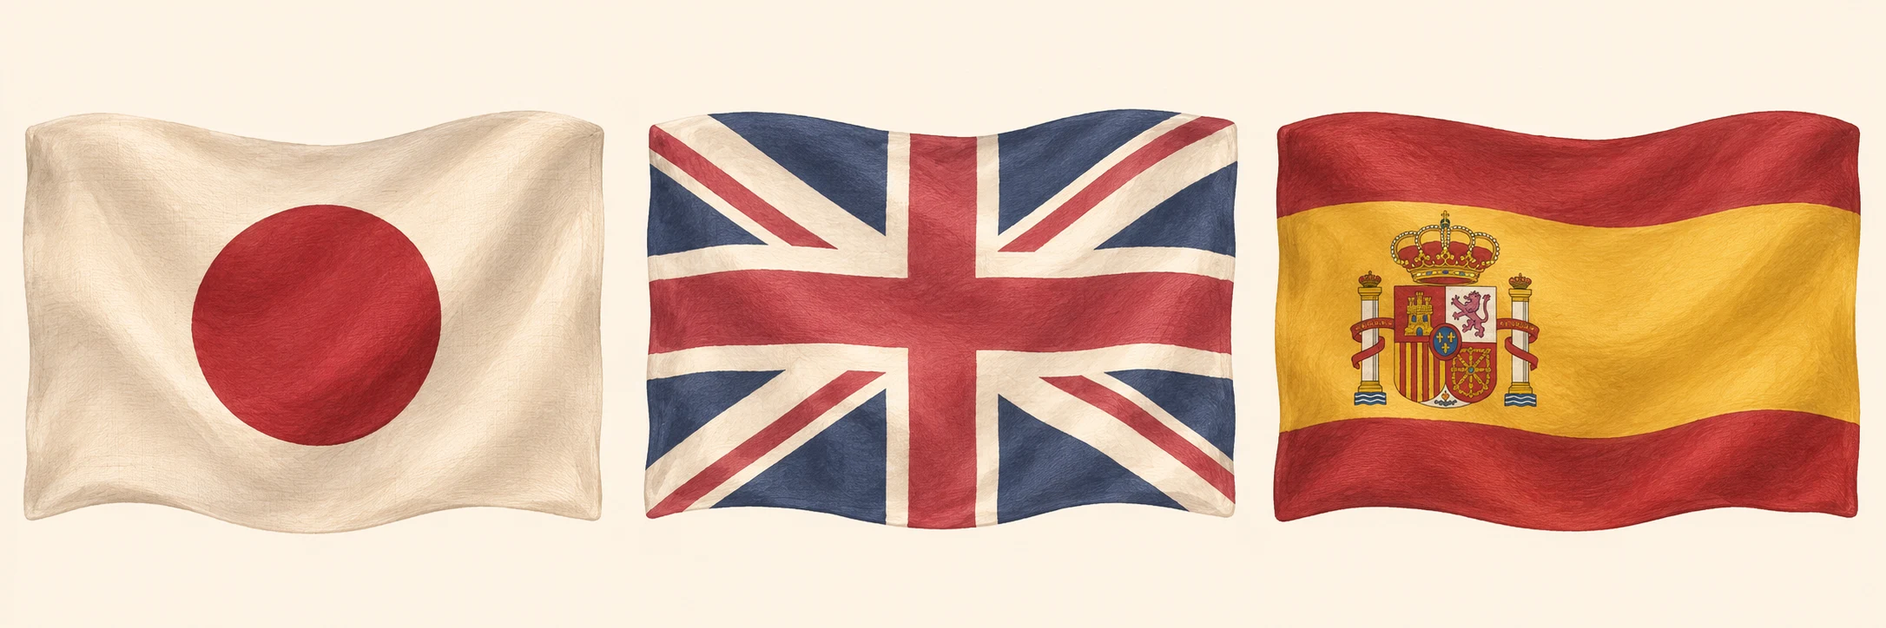
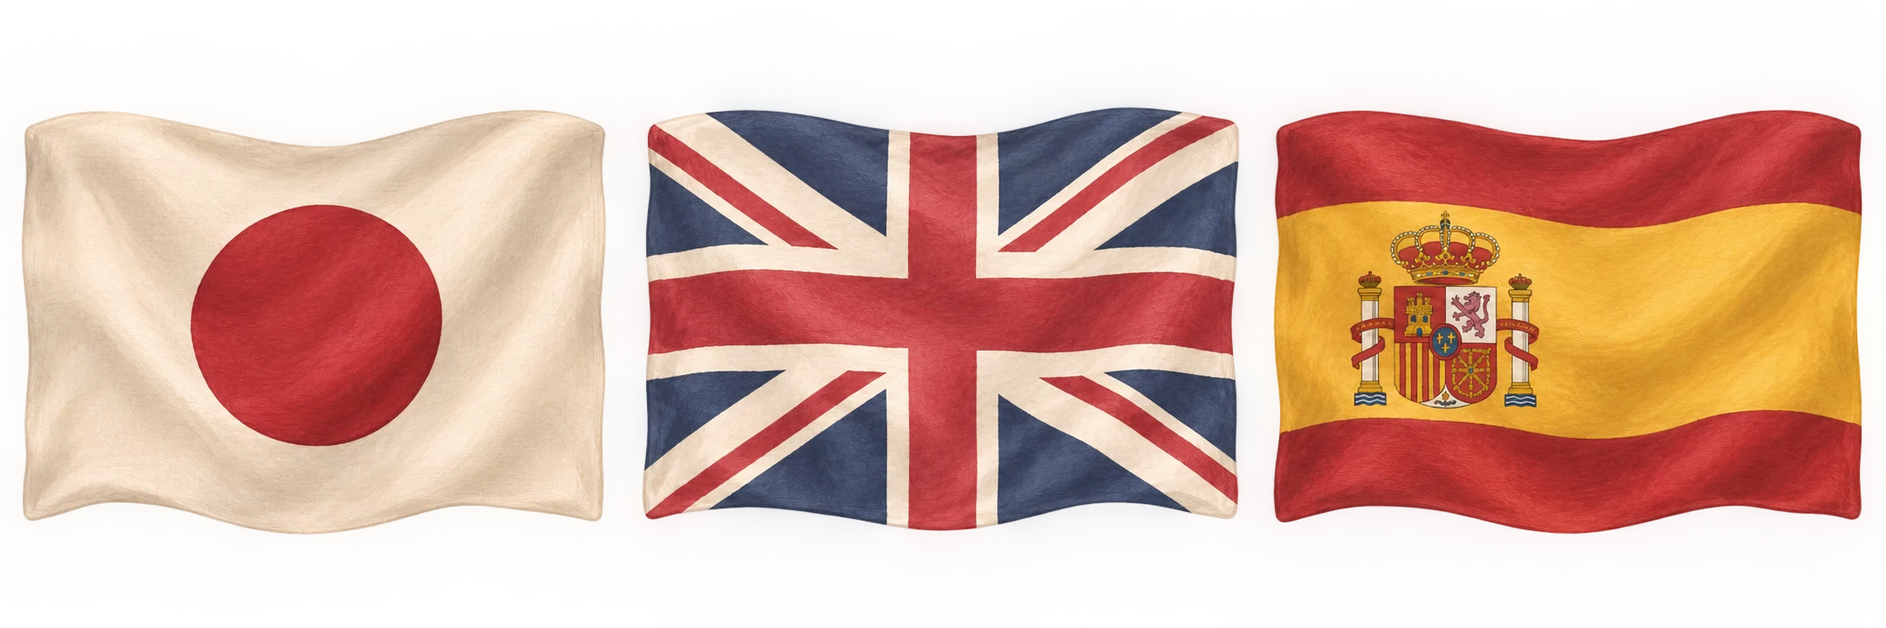
Correct active navigation and remove painted flag backgrounds

diff --git a/teacher-panel.js b/teacher-panel.js
@@ -2,7 +2,7 @@
 (()=>{
  const el=id=>document.getElementById(id),node=(tag,text)=>{const n=document.createElement(tag);if(text!==undefined)n.textContent=text;return n;};let scope=null,catalogLanguage=null,catalogGlossary=false,openedSet=null;const languageNames={Japanese:'Japoński',English:'Angielski',Spanish:'Hiszpański'};let account=null,revision=0,current='students',libraryView='classes',data={groups:[],folders:[],sets:[]},editingGroup=null,groupEditSaved=null,busy=false,profileScope=null,profileRevision=0;
  const status=t=>{el('teacherPanelStatus').textContent=t;};
- function button(text,fn){const b=node('button',text);b.type='button';b.className='alt';b.onclick=()=>run(fn);return b;}
+ function button(text,fn){const b=node('button',text);b.type='button';b.className='alt';b.onclick=()=>run(async()=>{await fn();if(b.closest('#teacherSidebar')&&!b.classList.contains('teacher-sidebar-toggle'))highlightNavigation(b);});return b;}
  async function rpc(action,p={}){const a=account,v=revision;if(!a?.userId||window.tooweeView!=='teacher')throw Error('Wybierz widok nauczyciela.');const r=await a.client.rpc('toowee_teacher',{p_action:action,p_data:p});if(v!==revision||a!==account)throw Error('Konto zostało zmienione.');if(r.error)throw Error('Panel nauczyciela wymaga konfiguracji. Kliknij „Aktualizuj panel nauczyciela”, skopiuj kod i uruchom w Supabase SQL Editor. '+r.error.message);if(action!=='words_update')data=r.data;return r.data;}
  async function run(fn){if(busy)return;const v=revision;busy=true;try{await fn();}catch(e){if(v===revision)status(e.message);}finally{if(v===revision){busy=false;window.recordTeacherNavigation?.();}}}
  const teacher=()=>window.tooweeView==='teacher';
@@ -151,12 +151,13 @@
  window.decorateTeacherLanguageCard=decorateLanguageCard;
  function renderVocabulary(){openedSet=null;vocab.dataset.materialLanguage=scope||lang.value;vocabActions.hidden=false;lang.hidden=Boolean(scope);if(scope)lang.value=scope;document.body.dataset.teacherLibrary=current==='vocabulary'&&libraryView==='base'?'open':'closed';for(const v of ['classes','sets','base'])el('teacherVocabulary-'+v).classList.toggle('alt',libraryView!==v);vocab.style.minHeight='';vocab.replaceChildren();if(libraryView==='base'){if(typeof chooseLanguage==='function')chooseLanguage(lang.value);if(typeof tab==='function')tab('words');vocab.append(node('p','Cała baza słów w wybranym języku. Możesz dodawać słówka i importować listy poniżej.'));return;}const folders=data.folders.filter(f=>f.lang===lang.value);const sets=data.sets.filter(s=>s.lang===lang.value);const actions=node('div'),forms=node('div');forms.hidden=true;actions.append(button('Dodaj folder',async()=>{forms.replaceChildren();forms.hidden=false;createFolderForm(forms,null,lang.value);}),button('Dodaj listę słówek',async()=>{forms.replaceChildren();forms.hidden=false;createSetForm(forms,folders,null);}));window.decorateMaterialCreationActions?.(actions);vocab.append(actions,forms);if(libraryView==='classes'){for(const f of folders){const card=node('details');card.className='material-folder-card teacher-vocab-folder';const contents=sets.filter(s=>s.folder_id===f.id);const summary=node('summary');summary.className='material-folder-title';summary.append(node('span',f.name));const count=node('small',contents.length+' '+(contents.length===1?'lista':contents.length>1&&contents.length<5?'listy':'list'));count.className='teacher-folder-count';summary.append(count);card.append(summary);materialMenu(summary,'folder',f);const mini=node('div');mini.className='teacher-folder-mini-list';for(const set of contents)mini.append(setCard(set));if(!contents.length)mini.append(node('p','Ten folder nie ma jeszcze list słówek.'));card.append(mini);window.attachExerciseFolder?.(card,f.id);vocab.append(card);}}else{for(const set of sets)vocab.append(setCard(set));if(!sets.length)vocab.append(node('p','Brak list słówek w tym języku.'));}}
  async function refresh(){await rpc('load');filterStudents();renderGroups();const selector=el('teacherStatisticsStudent'),selected=selector.value;selector.replaceChildren(new Option('Wybierz ucznia',''));for(const p of profiles())selector.add(new Option(p.first_name+' '+p.last_name,p.id));selector.value=selected;const o=data.overview||{};const counts=[['Uczniowie',profiles().length],['Grupy',data.groups.filter(g=>!scope||g.lang===scope).length],['Listy słówek',data.sets.filter(s=>!scope||s.lang===scope).length]];if(!scope)counts.push(['Słówka',o.words??'—'],['Zakończone gry',o.games??'—']);overview.replaceChildren();for(const [label,value] of counts){const card=node('div');card.className='teacher-statistics-count';card.append(node('strong',String(value)),node('span',label));overview.append(card);}studentStatsOpen.disabled=!selector.value;if(current==='vocabulary'){if(scope)renderVocabulary();else await renderAllWords();}}
- function show(key){if(!teacher())return;el('connectionsPanel').hidden=false;root.hidden=false;window.closeGroupVocabularyView?.();window.recordTeacherNavigation?.();if(el('teacherSettings'))el('teacherSettings').hidden=true;delete document.body.dataset.teacherSettings;entry.hidden=false;back.hidden=false;el('teacherWelcome').hidden=true;nav.hidden=!scope;current=key;el('connectionsTitle').textContent='Panel nauczyciela · '+(scope?languageNames[scope]+' · ':'')+({students:'Moi uczniowie',groups:'Grupy',games:'Gry',statistics:'Statystyki',vocabulary:'Słówka',resources:'Zestawy'}[key]||'');for(const k of Object.keys(panels)){panels[k].hidden=k!==key;el('teacherNav-'+k).classList.toggle('alt',k!==key);el('teacherNav-'+k).setAttribute('aria-pressed',String(k===key));}document.body.dataset.teacherSection=key;document.body.dataset.teacherLibrary=key==='vocabulary'&&libraryView==='base'?'open':'closed';if(key==='games')window.openTeacherGameCatalog?.(scope);if(key==='resources')void window.openExerciseSets?.();if(key!=='vocabulary'&&typeof window.pauseStudySession==='function')window.pauseStudySession();}
+ function highlightNavigation(id){for(const b of sidebar.querySelectorAll('.active,[aria-current="page"],button[aria-pressed="true"]')){b.classList.remove('active');b.removeAttribute('aria-current');if(b.hasAttribute('aria-pressed'))b.setAttribute('aria-pressed','false');}const selected=typeof id==='string'?el(id):id;if(selected){selected.classList.add('active');selected.setAttribute('aria-current','page');selected.setAttribute('aria-pressed','true');}}
+ function show(key){if(!teacher())return;highlightNavigation(scope?'teacherNav-'+key:'teacherEntry-all-'+key);el('connectionsPanel').hidden=false;root.hidden=false;window.closeGroupVocabularyView?.();window.recordTeacherNavigation?.();if(el('teacherSettings'))el('teacherSettings').hidden=true;delete document.body.dataset.teacherSettings;entry.hidden=false;back.hidden=false;el('teacherWelcome').hidden=true;nav.hidden=!scope;current=key;el('connectionsTitle').textContent='Panel nauczyciela · '+(scope?languageNames[scope]+' · ':'')+({students:'Moi uczniowie',groups:'Grupy',games:'Gry',statistics:'Statystyki',vocabulary:'Słówka',resources:'Zestawy'}[key]||'');for(const k of Object.keys(panels)){panels[k].hidden=k!==key;el('teacherNav-'+k).classList.toggle('alt',k!==key);el('teacherNav-'+k).setAttribute('aria-pressed',String(k===key));}document.body.dataset.teacherSection=key;document.body.dataset.teacherLibrary=key==='vocabulary'&&libraryView==='base'?'open':'closed';if(key==='games')window.openTeacherGameCatalog?.(scope);if(key==='resources')void window.openExerciseSets?.();if(key!=='vocabulary'&&typeof window.pauseStudySession==='function')window.pauseStudySession();}
 
  function renderLanguagePage(){const area=el('teacherWelcome');if(!area)return;area.replaceChildren(node('h3','Języki'));const list=node('div');list.className='language-options';for(const code of window.tooweeTeacherPreferences?.languages||Object.keys(languageNames)){if(!languageNames[code])continue;const card=button(languageNames[code],()=>enter(code));card.classList.add('language-choice');card.prepend(languageFlag(code));list.append(card);}area.append(node('p','Wybierz język ze swojego profilu.'),list);if(!list.children.length)area.append(node('p','Dodaj języki w ustawieniach profilu.'));}
- function showHome(){if(teacher()){el('connectionsPanel').hidden=false;root.hidden=false;}renderLanguagePage();window.recordTeacherNavigation?.();if(el('teacherSettings'))el('teacherSettings').hidden=true;delete document.body.dataset.teacherSettings;el('teacherWelcome').hidden=false;entry.hidden=false;back.hidden=true;nav.hidden=true;for(const p of Object.values(panels))p.hidden=true;document.body.dataset.teacherLibrary='closed';el('connectionsTitle').textContent='Panel nauczyciela';}
+ function showHome(){highlightNavigation('teacherLanguagesToggle');if(teacher()){el('connectionsPanel').hidden=false;root.hidden=false;}renderLanguagePage();window.recordTeacherNavigation?.();if(el('teacherSettings'))el('teacherSettings').hidden=true;delete document.body.dataset.teacherSettings;el('teacherWelcome').hidden=false;entry.hidden=false;back.hidden=true;nav.hidden=true;for(const p of Object.values(panels))p.hidden=true;document.body.dataset.teacherLibrary='closed';el('connectionsTitle').textContent='Panel nauczyciela';}
  function filterStudents(){renderSidebarStudents();renderSidebarSections();renderGlobalSidebar();const ids=new Set(profiles().map(p=>p.id));const query=(el('teacherPupilSearch')?.value||'').trim().toLocaleLowerCase('pl');for(const row of el('teacherStudentList').children){const name=row.querySelector('strong')?.textContent||row.textContent;row.hidden=Boolean(scope)&&!ids.has(row.dataset.profileId)||Boolean(query)&&!name.toLocaleLowerCase('pl').includes(query);}el('teacherStudentCount').textContent=(scope?languageNames[scope]:'Wszystkie języki')+' · '+(scope?ids.size:allProfiles().length)+' uczniów';const empty=el('teacherPupilSearchEmpty');if(empty)empty.hidden=!query||[...el('teacherStudentList').children].some(row=>!row.hidden);}
- async function enter(value){if(languageNames[value])setLanguagesOpen(true);if(value==='all-vocabulary')catalogLanguage=null;for(const l of Object.keys(languageNames))el('teacherEntry-'+l).setAttribute('aria-expanded',String(l===value));if(languageNames[value])el('teacherEntry-'+value).after(nav);el('gameStatisticsPanel').hidden=true;el('gameStatisticsHistory').replaceChildren();el('gameStatisticsDetail').replaceChildren();for(const b of [...Object.keys(languageNames),'all-students','all-groups','all-games','all-vocabulary','all-resources'].map(value=>el('teacherEntry-'+value))){b.classList.toggle('active',b.id==='teacherEntry-'+value);b.setAttribute('aria-pressed',String(b.id==='teacherEntry-'+value));}scope=languageNames[value]?value:null;window.tooweeTeacherLanguage=scope;el('profileLanguage').value=scope||'English';el('profileLanguage').disabled=Boolean(scope);if(scope&&typeof chooseLanguage==='function')chooseLanguage(scope);el('teacherListStudents').click();show(scope?'students':value==='all-groups'?'groups':value==='all-vocabulary'?'vocabulary':value==='all-games'?'games':value==='all-resources'?'resources':'students');await refresh();}
+ async function enter(value){if(languageNames[value])setLanguagesOpen(true);if(value==='all-vocabulary')catalogLanguage=null;for(const l of Object.keys(languageNames))el('teacherEntry-'+l).setAttribute('aria-expanded',String(l===value));if(languageNames[value])el('teacherEntry-'+value).after(nav);el('gameStatisticsPanel').hidden=true;el('gameStatisticsHistory').replaceChildren();el('gameStatisticsDetail').replaceChildren();for(const b of [...Object.keys(languageNames),'all-students','all-groups','all-games','all-vocabulary','all-resources'].map(value=>el('teacherEntry-'+value))){b.classList.toggle('active',b.id==='teacherEntry-'+value);b.setAttribute('aria-pressed',String(b.id==='teacherEntry-'+value));}scope=languageNames[value]?value:null;window.tooweeTeacherLanguage=scope;el('profileLanguage').value=scope||'English';el('profileLanguage').disabled=Boolean(scope);if(scope&&typeof chooseLanguage==='function')chooseLanguage(scope);el('teacherListStudents').click();show(scope?'students':value==='all-groups'?'groups':value==='all-vocabulary'?'vocabulary':value==='all-games'?'games':value==='all-resources'?'resources':'students');highlightNavigation('teacherEntry-'+value);await refresh();}
  async function renderAllWords(glossary=false){catalogGlossary=glossary;openedSet=null;vocab.dataset.materialLanguage=catalogLanguage||'all';document.body.dataset.teacherLibrary='closed';lang.hidden=true;vocabActions.hidden=true;vocab.style.minHeight='';vocab.replaceChildren();const languages=window.tooweeTeacherPreferences?.languages||Object.keys(languageNames);if(!catalogLanguage){vocab.append(node('h4','Wszystkie słówka — wybierz język'));const choices=node('div');choices.className='teacher-language-cards';for(const l of languages){const b=button(languageNames[l],async()=>{catalogLanguage=l;await renderAllWords();});b.dataset.catalogLanguage=l;decorateLanguageCard(b,l);choices.append(b);}vocab.append(choices);return;}const selectedLanguage=catalogLanguage;vocab.append(button('← Wybierz język',async()=>{catalogLanguage=null;await renderAllWords();}),node('h4','Wszystkie słówka · '+languageNames[catalogLanguage]));if(!glossary){vocab.append(button('Cały glosariusz',async()=>{await renderAllWords(true);}));const folders=data.folders.filter(f=>f.lang===catalogLanguage),sets=data.sets.filter(s=>s.lang===catalogLanguage);const actions=node('div'),forms=node('div');forms.hidden=true;actions.append(button('Dodaj folder',async()=>{forms.replaceChildren();forms.hidden=false;createFolderForm(forms,null,catalogLanguage);}),button('Dodaj listę słówek',async()=>{forms.replaceChildren();forms.hidden=false;createSetForm(forms,folders,null);}));window.decorateMaterialCreationActions?.(actions);vocab.append(actions,forms,node('h4','Foldery'));for(const f of folders){const box=node('details');box.dataset.navigationFolder=f.id;box.append(node('summary',f.name+(f.profile_id?' · '+(allProfiles().find(p=>p.id===f.profile_id)?.first_name||'Uczeń'):'')));materialMenu(box.querySelector('summary'),'folder',f);for(const s of sets.filter(s=>s.folder_id===f.id))box.append(setCard(s));if(!sets.some(s=>s.folder_id===f.id))box.append(node('p','Brak list słówek.'));window.attachExerciseFolder?.(box,f.id);vocab.append(box);}if(!folders.length)vocab.append(node('p','Brak folderów w tym języku.'));vocab.append(node('h4','Listy słówek'));for(const s of sets)vocab.append(setCard(s));if(!sets.length)vocab.append(node('p','Brak list słówek w tym języku.'));return;}vocab.append(node('p','Wczytywanie glosariusza…'));const a=account,v=revision;let words=[];for(let offset=0;;offset+=500){const r=await a.client.from('vocabulary_words').select('id,lang,word,reading,translation,folder_id').eq('owner_id',a.userId).order('id').range(offset,offset+499);if(v!==revision||scope||current!=='vocabulary'||catalogLanguage!==selectedLanguage)return;if(r.error)throw r.error;words.push(...r.data);if(r.data.length<500)break;}words=words.filter(w=>w.lang===selectedLanguage);vocab.replaceChildren(button('← Foldery i listy słówek',async()=>{await renderAllWords();}),node('h4','Cały glosariusz · '+languageNames[selectedLanguage]+' · '+words.length+' słówek'));const search=input();search.placeholder='Szukaj słówka lub tłumaczenia';search.setAttribute('aria-label','Szukaj w całym słownictwie');const list=node('div');list.className='material-word-items';function draw(){list.replaceChildren();for(const w of words.filter(w=>(w.word+' '+w.reading+' '+w.translation).toLowerCase().includes(search.value.toLowerCase()))){const row=node('p',w.word+(w.reading?' ('+w.reading+')':'')+' — '+w.translation+' · '+(languageNames[w.lang]||w.lang));row.className='material-word-card';list.append(row);}}search.oninput=draw;vocab.append(search,list);draw();}
  async function renderStudentFolders(scope){if(!scope)return;profileScope=scope;const v=++profileRevision;const r=await rpc('profile',{profile_id:scope.id});filterStudents();if(v!==profileRevision||profileScope!==scope)return;const area=el('studentMaterialFolders');area.style.minHeight='';area.replaceChildren();const allButton=button('Wszystkie słówka · '+(scope.total??0)+' słówek',async()=>{await window.selectTeacherStudentSet('all');});allButton.classList.add('material-all-words');allButton.setAttribute('aria-pressed',String(scope.set_id==='all'));area.append(allButton);const folders=r.folders.filter(f=>f.profile_id===scope.id&&f.lang===scope.lang);const actions=node('div');actions.className='actions';const forms=node('div');forms.hidden=true;actions.append(button('Dodaj folder',async()=>{forms.replaceChildren();forms.hidden=false;createFolderForm(forms,scope.id,scope.lang);}),button('Dodaj listę słówek',async()=>{forms.replaceChildren();forms.hidden=false;createSetForm(forms,folders,scope.id);}));window.decorateMaterialCreationActions?.(actions);area.append(actions,forms,node('h4','Foldery'));const displaySets=r.sets.map(s=>s.id===scope.default_set_id?{...s,name:'Słówka luzem'}:s);const visibleFolders=folders.filter(f=>!(['Ogólne','Słówka bez zestawu','Słówka luzem'].includes(f.name)&&!displaySets.some(s=>s.folder_id===f.id&&s.id!==scope.default_set_id)));if(!visibleFolders.length)area.append(node('p','Nie masz jeszcze folderów. Dodaj folder, aby uporządkować listy słówek.'));for(const f of visibleFolders){const box=node('details');box.open=false;box.dataset.navigationFolder=f.id;box.append(node('summary',f.name==='Ogólne'?'Słówka luzem':f.name));materialMenu(box.querySelector('summary'),'folder',f);for(const set of displaySets.filter(s=>s.folder_id===f.id)){const b=setCard(set,async()=>{await window.selectTeacherStudentSet(set.id);});b.querySelector('.material-set-open').setAttribute('aria-pressed',String(scope.set_id===set.id));box.append(b);}area.append(box);}area.append(node('h4','Listy słówek'));for(const set of displaySets.filter(s=>s.profile_id===scope.id&&s.lang===scope.lang))area.append(setCard(set,async()=>{await window.selectTeacherStudentSet(set.id);}));const selected=displaySets.find(s=>s.id===scope.set_id);const editorTitle=el('profileWordEditor').querySelector('h4');if(editorTitle)editorTitle.textContent=scope.set_id==='all'?'Wszystkie słówka':'Lista słówek: '+(selected?.name||'Słówka luzem');if(editorTitle&&selected&&scope.set_id!=='all'){editorTitle.classList.add('tw-material-heading');materialMenu(editorTitle,'set',selected);}const hint=node('p',scope.set_id==='all'?'Wszystkie słówka — słówka ze wszystkich folderów i zestawów ucznia w wybranym języku. Nowe słówka i import zapisują się w „Słówka luzem” i są od razu widoczne tutaj.':'Otwarta lista słówek: '+(selected?.id===scope.default_set_id?'Słówka luzem':selected?.name||'Materiały ucznia')+'. Słówka i import poniżej zapisują się do tego zestawu.');hint.hidden=true;area.append(hint);}
  window.getStudentGameMaterials=async(profileId,language)=>{const currentAccount=account,v=revision;if(!currentAccount?.userId||!teacher())throw Error('Wybierz widok nauczyciela.');const r=await rpc('profile',{profile_id:profileId});const folders=r.folders.filter(f=>f.profile_id===profileId),folderIds=new Set(folders.map(f=>f.id));const sets=r.sets.filter(s=>s.profile_id===profileId&&folderIds.has(s.folder_id));const words=[];for(let i=0;i<sets.length;i+=80){const ids=sets.slice(i,i+80).map(s=>s.id);for(let offset=0;;offset+=500){const result=await currentAccount.client.from('vocabulary_words').select('id,owner_id,lang,word,reading,translation,example,folder_id,created_at').eq('owner_id',currentAccount.userId).in('folder_id',ids).order('id').range(offset,offset+499);if(v!==revision||account!==currentAccount)throw Error('Konto zostało zmienione.');if(result.error)throw Error('Nie udało się wczytać słownictwa ucznia: '+result.error.message);words.push(...(result.data||[]));if((result.data||[]).length<500)break;}}return{profile_id:profileId,lang:language,folders,sets,words};};

diff --git a/index.html b/index.html
@@ -30,7 +30,7 @@ body[data-portal-mode=teacher] #portalRefresh,body[data-portal-mode=teacher] #te
 :is(#teacherSidebar,#studentSidebar) .teacher-sidebar-nav-row{display:flex;align-items:center;gap:2px}:is(#teacherSidebar,#studentSidebar) .teacher-sidebar-nav-row>button:first-child{flex:1;min-width:0}:is(#teacherSidebar,#studentSidebar) #teacherNavigation .teacher-sidebar-toggle{display:grid;place-items:center;flex:0 0 28px;width:28px;min-height:30px;padding:4px;border-radius:8px;color:#92929a}:is(#teacherSidebar,#studentSidebar) .teacher-sidebar-toggle span,:is(#teacherSidebar,#studentSidebar) .teacher-language-chevron{display:block;width:6px;height:6px;border-right:1.5px solid #92929a;border-bottom:1.5px solid #92929a;transform:rotate(45deg);margin-top:-3px}:is(#teacherSidebar,#studentSidebar) .teacher-sidebar-toggle[aria-expanded=true] span,:is(#teacherSidebar,#studentSidebar) .teacher-language-toggle[aria-expanded=true] .teacher-language-chevron{transform:rotate(225deg);margin-top:3px}:is(#teacherSidebar,#studentSidebar) #teacherNavigation .teacher-sidebar-toggle:hover,:is(#teacherSidebar,#studentSidebar) .teacher-sidebar-submenu button:hover{background:#e9e0f5}:is(#teacherSidebar,#studentSidebar) .teacher-sidebar-submenu{display:flex;flex-direction:column;gap:3px;margin:2px 0 7px 12px;padding-left:8px;border-left:2px solid #e3d8f3}:is(#teacherSidebar,#studentSidebar) #teacherNavigation .teacher-sidebar-submenu button{width:100%;font-size:12px;line-height:1.4;overflow-wrap:anywhere;padding:7px 9px}:is(#teacherSidebar,#studentSidebar) .teacher-sidebar-submenu p{font-size:12px;padding:5px 8px;margin:0;color:#82718f}:is(#teacherSidebar,#studentSidebar) #teacherNavigation button:focus-visible{outline:2px solid #7854bd;outline-offset:2px}:is(#teacherSidebar,#studentSidebar) .teacher-language-toggle{display:flex;justify-content:space-between;align-items:center;gap:8px}
 
 :is(#teacherSidebar,#studentSidebar) .teacher-global-nav-row{background:#eee7f9;border-radius:12px}:is(#teacherSidebar,#studentSidebar) .teacher-global-nav-row>button:first-child{min-height:34px;padding:8px 11px;text-align:left;font-size:13px;line-height:1.25;background:transparent}:is(#teacherSidebar,#studentSidebar) .teacher-global-nav-row:has(>button.active){background:#7854bd}:is(#teacherSidebar,#studentSidebar) .teacher-global-nav-row>button.active{color:#fff}:is(#teacherSidebar,#studentSidebar) .teacher-global-nav-row .teacher-sidebar-toggle{display:grid;place-items:center;flex:0 0 28px;width:28px;min-height:30px;padding:4px;margin-right:3px;background:transparent}:is(#teacherSidebar,#studentSidebar) .teacher-global-nav-row .teacher-sidebar-toggle:hover{background:#e3d8f3}:is(#teacherSidebar,#studentSidebar) .teacher-global-nav-row button:focus-visible{outline:2px solid #7854bd;outline-offset:2px}:is(#teacherSidebar,#studentSidebar) .teacher-entry-grid>.teacher-sidebar-submenu button{min-height:30px;font-size:12px;line-height:1.4;text-align:left;padding:7px 9px;background:transparent;color:#614780;overflow-wrap:anywhere}:is(#teacherSidebar,#studentSidebar) .teacher-entry-grid>.teacher-sidebar-submenu button:hover{background:#e9e0f5}
-</style><link rel="stylesheet" href="sophie-live.css?v=9"><link rel="stylesheet" href="material-views.css?v=12"><link rel="stylesheet" href="collections.css?v=20261113stablecollections"><link rel="stylesheet" href="teacher-lounge.css?v=20261115painted"><link rel="stylesheet" href="magic-dice.css?v=20261111d"><link rel="stylesheet" href="exercise-sets.css?v=2"><link rel="stylesheet" href="game-delivery.css?v=2"><style id="toowee-pastel-dice-icon-style">
+</style><link rel="stylesheet" href="sophie-live.css?v=9"><link rel="stylesheet" href="material-views.css?v=12"><link rel="stylesheet" href="collections.css?v=20261113stablecollections"><link rel="stylesheet" href="teacher-lounge.css?v=20261115transparent"><link rel="stylesheet" href="magic-dice.css?v=20261111d"><link rel="stylesheet" href="exercise-sets.css?v=2"><link rel="stylesheet" href="game-delivery.css?v=2"><style id="toowee-pastel-dice-icon-style">
 .toowee-pastel-dice-icon{display:inline-block;position:relative;width:2.1em;height:1.6em;vertical-align:middle;flex-shrink:0;font-size:inherit}
 .toowee-pastel-dice-icon::before,.toowee-pastel-dice-icon::after{content:"";position:absolute;width:1.12em;height:1.12em;border-radius:.24em;border:1px solid #ae91c5;box-shadow:0 2px 4px #5c41672b}
 .toowee-pastel-dice-icon::before{left:.12em;top:.32em;transform:rotate(-13deg);background:radial-gradient(circle at 28% 28%,#644978 0 7%,transparent 9%),radial-gradient(circle at 72% 72%,#644978 0 7%,transparent 9%),#e8d4f5}
@@ -255,4 +255,4 @@ body[data-portal-mode=teacher] #portalRefresh,body[data-portal-mode=teacher] #te
 </dialog>
 
 <script>if(/^[a-f0-9]{64}$/.test(new URLSearchParams(location.search).get("uczen")||"")){const notice=document.createElement("p");notice.textContent="Masz zaproszenie od nauczyciela. Zaloguj się lub zarejestruj, a następnie zaakceptuj kod w sekcji Połącz z nauczycielem. Twoje prywatne materiały pozostają prywatne.";notice.className="card";document.querySelector("main")?.prepend(notice);}</script><script src="app.js?v=20261114sets"></script><script src="import-parser.js?v=20261112"></script><script src="imports.js?v=20261114sets"></script><script src="escape.js?v=2"></script><script src="falling.js?v=5"></script><script src="magic-dice.js?v=20261111d"></script><script src="games.js?v=20261113c"></script><script src="magic-dice-share.js?v=3"></script><script src="online-lobby.js?v=20261113c"></script><script src="magic-dice-live.js?v=20261114join"></script><script src="srs.js?v=2"></script><script src="learning.js?v=20261111navfolders"></script><script src="study-scope.js?v=1"></script><script src="furigana.js?v=1"></script><script src="study.js?v=20261111b"></script><script src="tasks.js?v=3"></script><script src="progress-math.js?v=1"></script><script src="progress.js?v=3"></script><script src="https://cdn.jsdelivr.net/npm/@supabase/supabase-js@2.57.4/dist/umd/supabase.js"></script>
-<script src="activity-focus.js?v=20261113c"></script><script src="world.js?v=3"></script><script src="world-study.js?v=20261111b"></script><script src="accounts.js?v=20261113menus"></script><script src="statistics.js?v=22"></script><script src="sophie-live.js?v=20261114join"></script><script src="material-colors.js?v=2"></script><script src="material-study.js?v=20261111b"></script><script src="material-action-tiles.js?v=1"></script><script src="material-export.js?v=20261112"></script><script src="language-flags.js?v=20261115painted"></script><script src="teacher-panel.js?v=20261115painted"></script><script src="group-vocabulary.js?v=20261112"></script><script src="teacher-settings.js?v=20261115painted"></script><script src="material-views.js?v=4"></script><script src="collections.js?v=20261114join"></script><script src="game-delivery.js?v=3"></script><script src="teacher-game-setup.js?v=20261113c"></script><script src="teacher-game-catalog.js?v=20261113profilegames"></script><script src="exercise-sets-core.js?v=20261112"></script><script src="exercise-sets.js?v=20261113menus"></script><script src="assigned-exercises.js?v=20261112"></script><script src="teacher-history.js?v=20261111navfolders"></script><script src="teacher-lounge.js?v=20261112"></script><script src="swords-bombs-hearts.js?v=20261111c"></script><script src="classroom-tools.js?v=20261114wordimage"></script><script src="dialog-close.js?v=20261113stablecollections"></script><script src="game-join.js?v=1"></script><script src="student-shell.js?v=20261115painted"></script><script src="student-vocabulary.js?v=1"></script><script src="auth.js?v=5"></script><script src="directory-search.js?v=3"></script><script src="game-directory-views.js?v=20261113profilegames"></script><script src="dropdown-menus.js?v=1"></script><script src="portal-home.js?v=20261115nav"></script></body></html>
+<script src="activity-focus.js?v=20261113c"></script><script src="world.js?v=3"></script><script src="world-study.js?v=20261111b"></script><script src="accounts.js?v=20261113menus"></script><script src="statistics.js?v=22"></script><script src="sophie-live.js?v=20261114join"></script><script src="material-colors.js?v=2"></script><script src="material-study.js?v=20261111b"></script><script src="material-action-tiles.js?v=1"></script><script src="material-export.js?v=20261112"></script><script src="language-flags.js?v=20261115transparent"></script><script src="teacher-panel.js?v=20261115transparent"></script><script src="group-vocabulary.js?v=20261112"></script><script src="teacher-settings.js?v=20261115transparent"></script><script src="material-views.js?v=4"></script><script src="collections.js?v=20261114join"></script><script src="game-delivery.js?v=3"></script><script src="teacher-game-setup.js?v=20261113c"></script><script src="teacher-game-catalog.js?v=20261113profilegames"></script><script src="exercise-sets-core.js?v=20261112"></script><script src="exercise-sets.js?v=20261113menus"></script><script src="assigned-exercises.js?v=20261112"></script><script src="teacher-history.js?v=20261111navfolders"></script><script src="teacher-lounge.js?v=20261112"></script><script src="swords-bombs-hearts.js?v=20261111c"></script><script src="classroom-tools.js?v=20261114wordimage"></script><script src="dialog-close.js?v=20261113stablecollections"></script><script src="game-join.js?v=1"></script><script src="student-shell.js?v=20261115transparent"></script><script src="student-vocabulary.js?v=1"></script><script src="auth.js?v=5"></script><script src="directory-search.js?v=3"></script><script src="game-directory-views.js?v=20261113profilegames"></script><script src="dropdown-menus.js?v=1"></script><script src="portal-home.js?v=20261115transparent"></script></body></html>

diff --git a/portal-home.js b/portal-home.js
@@ -9,7 +9,7 @@
  const byline=make('p','by Magdalena Tułacz');byline.className='hint';home.append(logo,title,slogan,byline);document.querySelector('main').before(home);
  const links=[];let role=null;
  function close(){home.hidden=true;delete document.body.dataset.portalHome;for(const b of links)b.removeAttribute('aria-current');}
- function open(){if(!['student','teacher','admin'].includes(window.tooweeView))return;window.closeActivityFocus?.();window.pauseStudySession?.();home.hidden=false;document.body.dataset.portalHome='open';for(const b of links)b.setAttribute('aria-current','page');}
+ function open(){if(!['student','teacher','admin'].includes(window.tooweeView))return;window.closeActivityFocus?.();window.pauseStudySession?.();home.hidden=false;for(const b of document.querySelectorAll('#teacherSidebar .active,#studentSidebar .active,#teacherSidebar [aria-current=page],#studentSidebar [aria-current=page]')){b.classList.remove('active');b.removeAttribute('aria-current');if(b.hasAttribute('aria-pressed'))b.setAttribute('aria-pressed','false');}document.body.dataset.portalHome='open';for(const b of links)b.setAttribute('aria-current','page');}
  window.openTooWeeHome=open;
  for(const selector of ['#teacherSidebar .teacher-entry-grid','#studentSidebar nav','.site-header']){const parent=document.querySelector(selector);if(!parent)continue;const b=make('button','Strona główna');b.type='button';b.className='alt portal-home-link';b.addEventListener('click',open);if(selector==='.site-header')b.id='adminHomeLink';parent.prepend(b);links.push(b);}
  const brand=document.querySelector('.site-logo-button');if(brand){brand.removeAttribute('onclick');brand.onclick=open;brand.setAttribute('aria-label','TooWee Languages — strona główna');}

diff --git a/teacher-lounge.css b/teacher-lounge.css
@@ -433,10 +433,12 @@ body:is([data-portal-mode=teacher],[data-portal-mode=student]) #portalHome{margi
 .teacher-language-card .toowee-language-flag{display:block;width:130px;height:auto;object-fit:contain}@media(max-width:700px){.teacher-language-card .toowee-language-flag{width:90px}}
 
 /* Approved painted flags, shared as one cached image across menus and cards. */
-.toowee-language-flag{display:inline-block;width:30px;height:24px;flex:none;vertical-align:middle;background-image:url('assets/language-flags-gouache.webp');background-size:300% auto;background-repeat:no-repeat;background-position:0% 50%;border-radius:4px}
+.toowee-language-flag{display:inline-block;width:30px;height:24px;flex:none;vertical-align:middle;background-image:url('assets/language-flags-gouache.webp?v=20261115transparent');background-size:300% auto;background-repeat:no-repeat;background-position:0% 50%;border-radius:4px}
 .toowee-language-flag[data-language-flag=English]{background-position:50% 50%}
 .toowee-language-flag[data-language-flag=Spanish]{background-position:100% 50%}
 #teacherWelcome .toowee-language-flag,.teacher-language-card .toowee-language-flag{width:160px;height:120px}
 #teacherLanguageList .toowee-language-flag{margin-right:8px}
 #studentLanguageList>button,#studentLanguageToggle,#teacherSettingsLanguages label{display:flex;align-items:center;gap:8px}
 @media(max-width:700px){.teacher-language-card .toowee-language-flag{width:90px;height:68px}}
+
+#teacherSidebar button[aria-current=page]{background:#7b557b!important;color:#fff!important}
